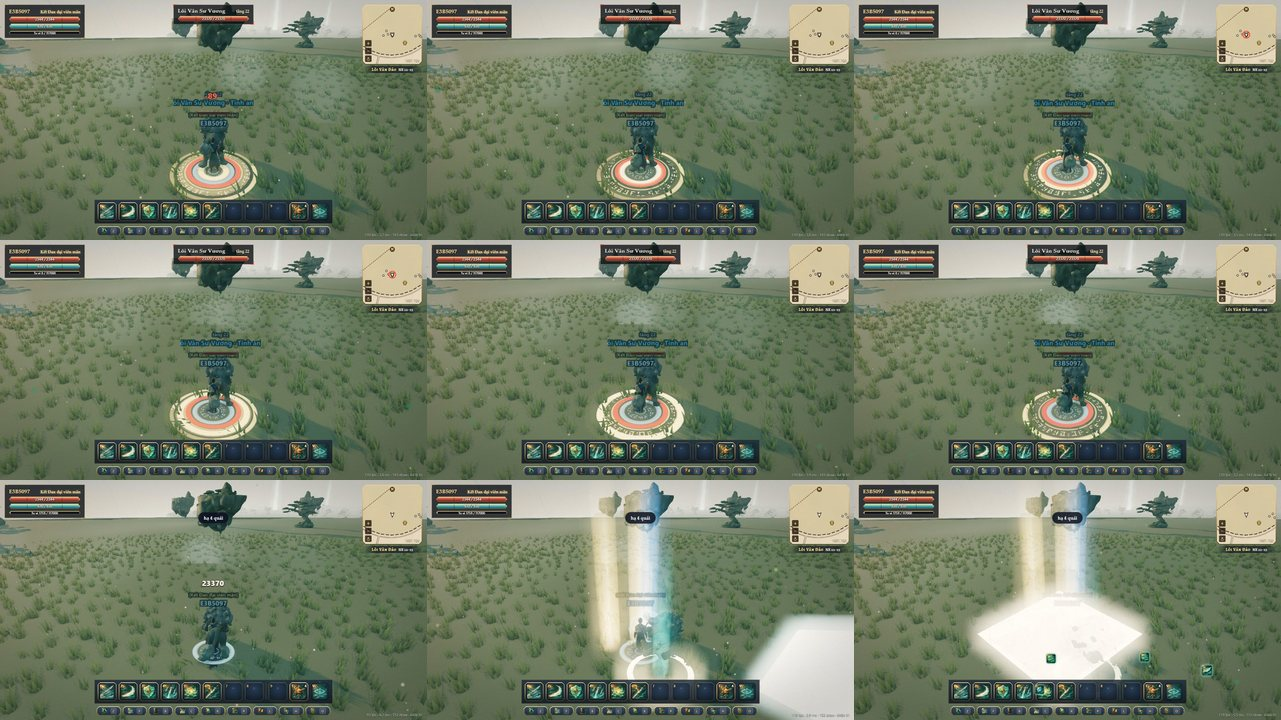
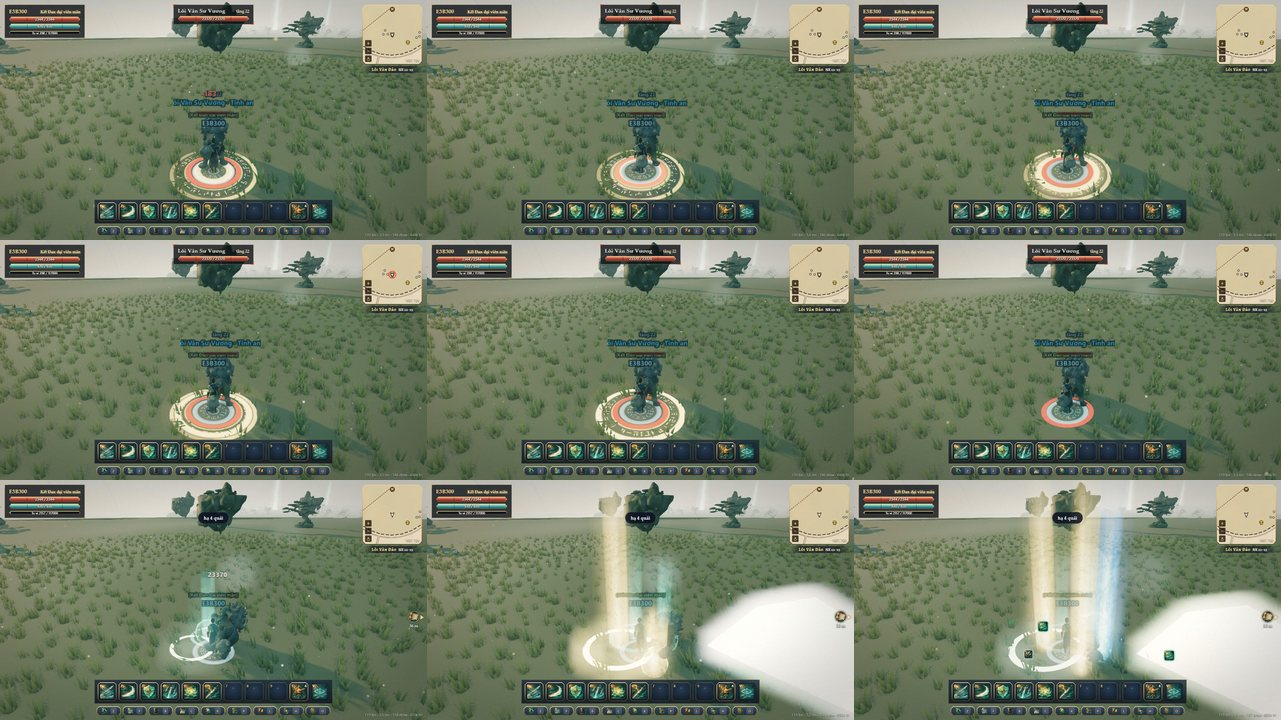
fix(client): mờ cột sáng đồ rơi khi camera sát; ghi việc còn lại (tấm trắng khi hạ nhiều quái)

diff --git a/apps/client/src/game/vfx.ts b/apps/client/src/game/vfx.ts
@@ -495,11 +495,15 @@ export class Vfx {
           const out = tt > lift ? Math.max(0, 1 - (tt - lift) / 0.7) : 1;
           beam.fxA.x = Math.min(1.1, bt / 0.25);
           beam.fxK = Math.min(1, bt / 0.8);
-          beam.fxOpacity = T.alpha * out * lootPulse(tier, bt);
+          // Camera sát hay nằm trong cột (nhiều món rơi chồng nhau): mặt cột che kín màn hình thành tấm trắng cháy sáng, nên mờ dần khi lại gần.
+          const cam = this.camera;
+          const near = cam ? Math.min(1, Math.max(0, (Math.hypot(cam.position.x - tx, cam.position.z - tz) - T.radius * 1.2) / 5)) : 1;
+          const vis = 0.15 + 0.85 * near;
+          beam.fxOpacity = T.alpha * out * lootPulse(tier, bt) * vis;
           if (core) {
             core.fxA.x = Math.min(1.1, bt / 0.35);
             core.fxK = beam.fxK;
-            core.fxOpacity = 0.5 * out;
+            core.fxOpacity = 0.5 * out * vis;
           }
           if (ring) {
             // Loang ra rồi đọng lại thành quầng dưới chân cột, thở nhẹ, tắt cùng cột.

diff --git a/docs/e3b-mons/README.md b/docs/e3b-mons/README.md
@@ -71,6 +71,8 @@ Mặt đảo vẫn là cỏ Vân Lam nhạt màu (bộ texture riêng thuộc E3
 
 ## Còn lại
 
+- **Tấm trắng cháy sáng khi hạ nhiều quái cùng lúc** (thấy ở hàng cuối `elite_loi_van_su_vuong.jpg`, khi `/gm killall` hạ 4 quái một lúc và rơi nhiều đồ): một đa giác trắng phẳng rất lớn bên phải màn hình, tái hiện được. Khi chỉ hạ một con thì không có. Chưa xác định nguồn: vòng (`RING_GEO`) và cột sáng (`BEAM_GEO`) của đồ rơi đều tròn, nên nghi một mesh cộng sáng sát camera (cột/lõi bậc cao, hoặc bloom chồng nhiều lớp). Đã thêm làm mờ cột sáng khi camera lại gần (`lootDrop` ở `game/vfx.ts`) nhưng chưa hết tấm trắng. Cần: ghi lại mesh phủ nhiều pixel nhất ở khung đó (duyệt `scene`), rồi hạ cường độ hoặc đổi thành vòng mờ. Không do dữ liệu E3-B (tinh anh khác cũng dùng chung VFX rơi đồ).
+
 - Nuốt kéo người chơi, Kim Thiền phun độc khi chết (cần hook server).
 - Kính Linh "mở sườn khi đánh" (chưa có cơ chế).
 - Nhạc `boss_kinh`, texture mặt đảo (E3-I/mỹ thuật bản đồ 3).
